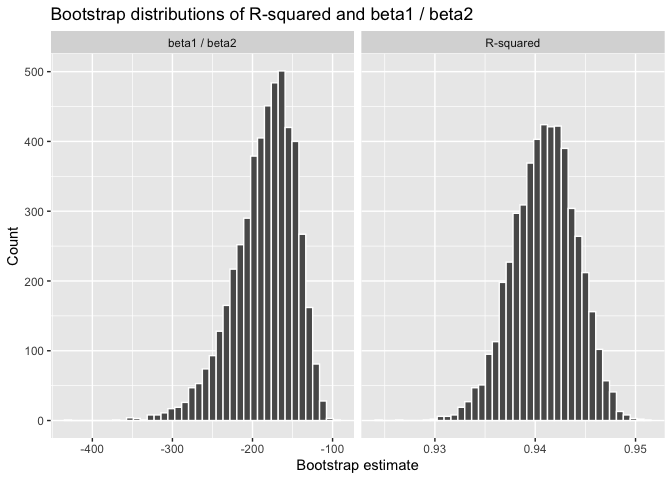
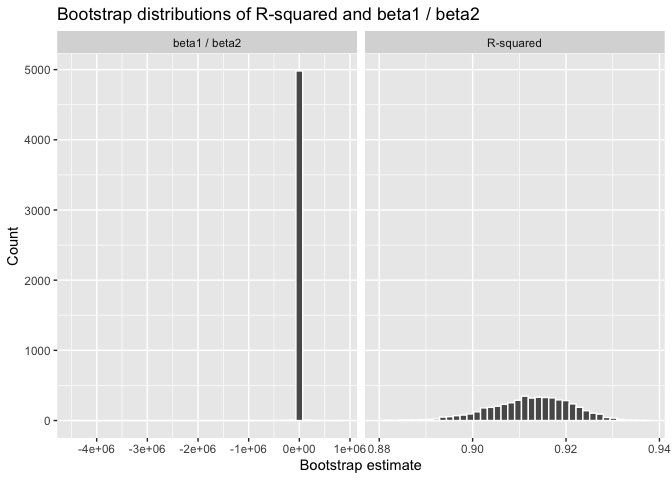
1

diff --git a/p8105_hw6_km4071.md b/p8105_hw6_km4071.md
@@ -201,6 +201,7 @@ data("weather_df")
 
 weather_df =
   weather_df |>
+  filter(name == "CentralPark_NY") |>
   drop_na(tmax, tmin, prcp)
 
 base_fit =
@@ -214,7 +215,7 @@ base_fit |>
     ## # A tibble: 1 × 1
     ##   r.squared
     ##       <dbl>
-    ## 1     0.941
+    ## 1     0.912
 
 ``` r
 base_fit |>
@@ -222,11 +223,11 @@ base_fit |>
 ```
 
     ## # A tibble: 3 × 5
-    ##   term        estimate std.error statistic  p.value
-    ##   <chr>          <dbl>     <dbl>     <dbl>    <dbl>
-    ## 1 (Intercept)  7.78     0.0854       91.0  0       
-    ## 2 tmin         1.02     0.00558     182.   0       
-    ## 3 prcp        -0.00558  0.000593     -9.41 1.21e-20
+    ##   term        estimate std.error statistic   p.value
+    ##   <chr>          <dbl>     <dbl>     <dbl>     <dbl>
+    ## 1 (Intercept)  7.56     0.162        46.6  1.31e-220
+    ## 2 tmin         1.03     0.0119       86.9  0        
+    ## 3 prcp        -0.00157  0.000966     -1.63 1.04e-  1
 
 ``` r
 n_boot = 5000
@@ -294,7 +295,16 @@ ggplot(boot_long, aes(x = value)) +
   )
 ```
 
-![](p8105_hw6_km4071_files/figure-gfm/unnamed-chunk-9-1.png)<!-- -->
+![](p8105_hw6_km4071_files/figure-gfm/unnamed-chunk-9-1.png)<!-- --> The
+bootstrap distribution for R^2 appears stable and well-behaved, but the
+distribution of β1/β2is extremely distorted. This occurs because the
+precipitation coefficient β2 is very close to zero in many bootstrap
+samples, causing the ratio β1/β2 to explode to very large positive or
+negative values. As a result, the histogram is dominated by extreme
+outliers and collapses visually into a single vertical bar. This
+indicates that the ratio is not a numerically stable or meaningful
+summary for these data, even though the bootstrap procedure itself is
+functioning correctly.
 
 ``` r
 ci_r_sq =
@@ -321,10 +331,20 @@ ci_table
 ```
 
     ## # A tibble: 2 × 3
-    ##   stat             lower    upper
-    ##   <chr>            <dbl>    <dbl>
-    ## 1 R-squared        0.934    0.947
-    ## 2 beta1 / beta2 -275.    -125.
+    ##   stat              lower    upper
+    ##   <chr>             <dbl>    <dbl>
+    ## 1 R-squared         0.894    0.928
+    ## 2 beta1 / beta2 -5616.    4587.
+
+The bootstrap confidence interval for R^2 is narrow and well-defined,
+reflecting a stable relationship between the predictors and maximum
+temperature. In contrast, the confidence interval for β1/β2 is extremely
+wide, spanning from roughly –5600 to 4600. This occurs because the
+precipitation coefficient β2 is frequently very close to zero across
+bootstrap samples, causing the ratio to become highly unstable and
+producing extreme values. As a result, the ratio is not a reliable or
+interpretable summary for these data, even though the bootstrap
+procedure itself is functioning correctly.
 
 \#Problem 3
 
